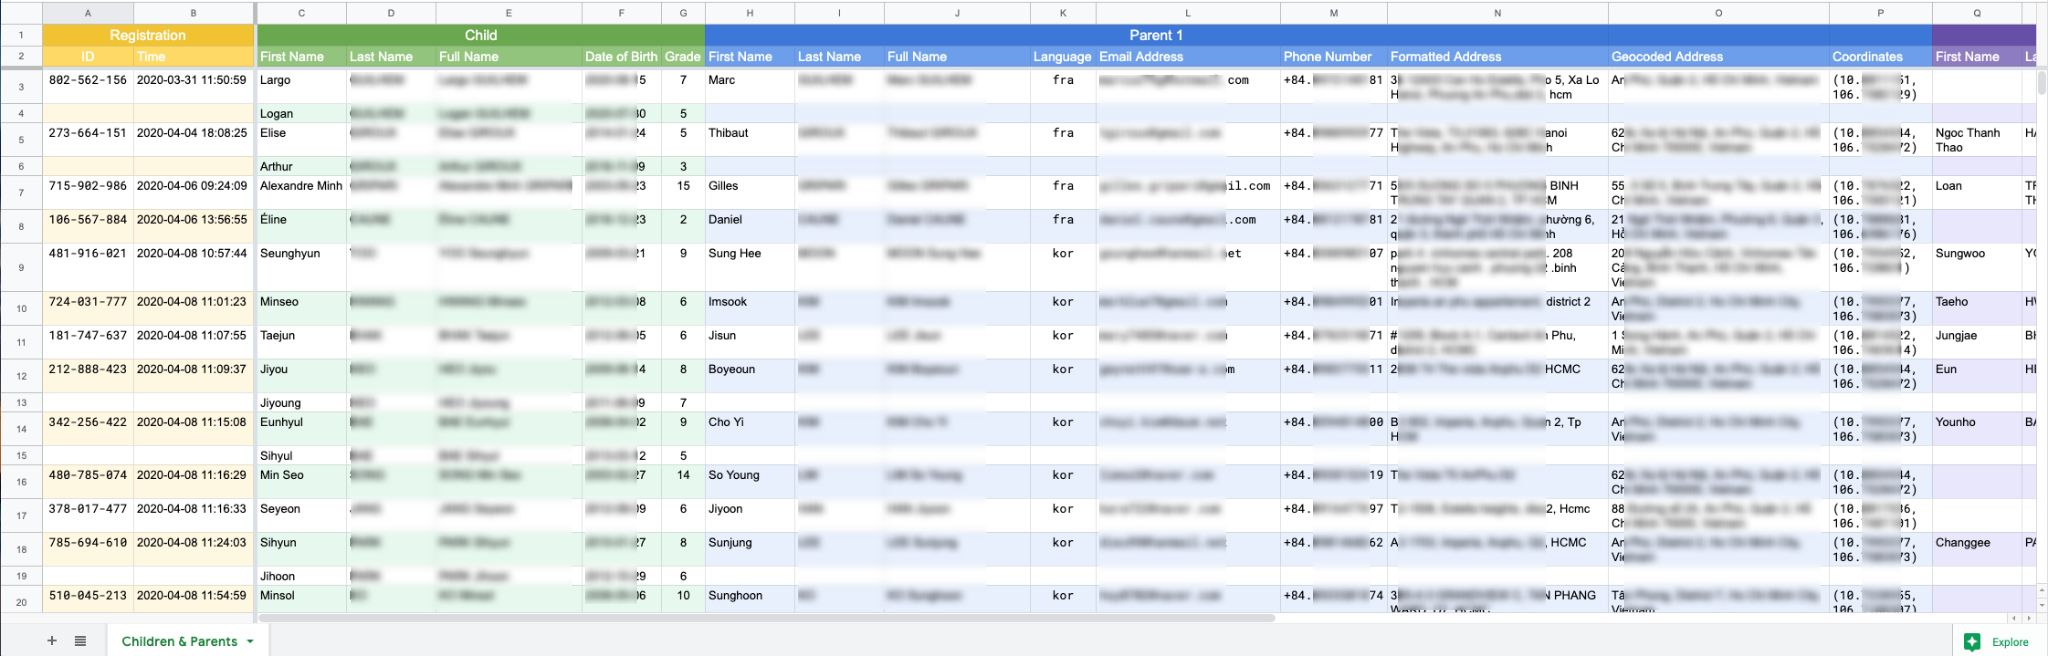
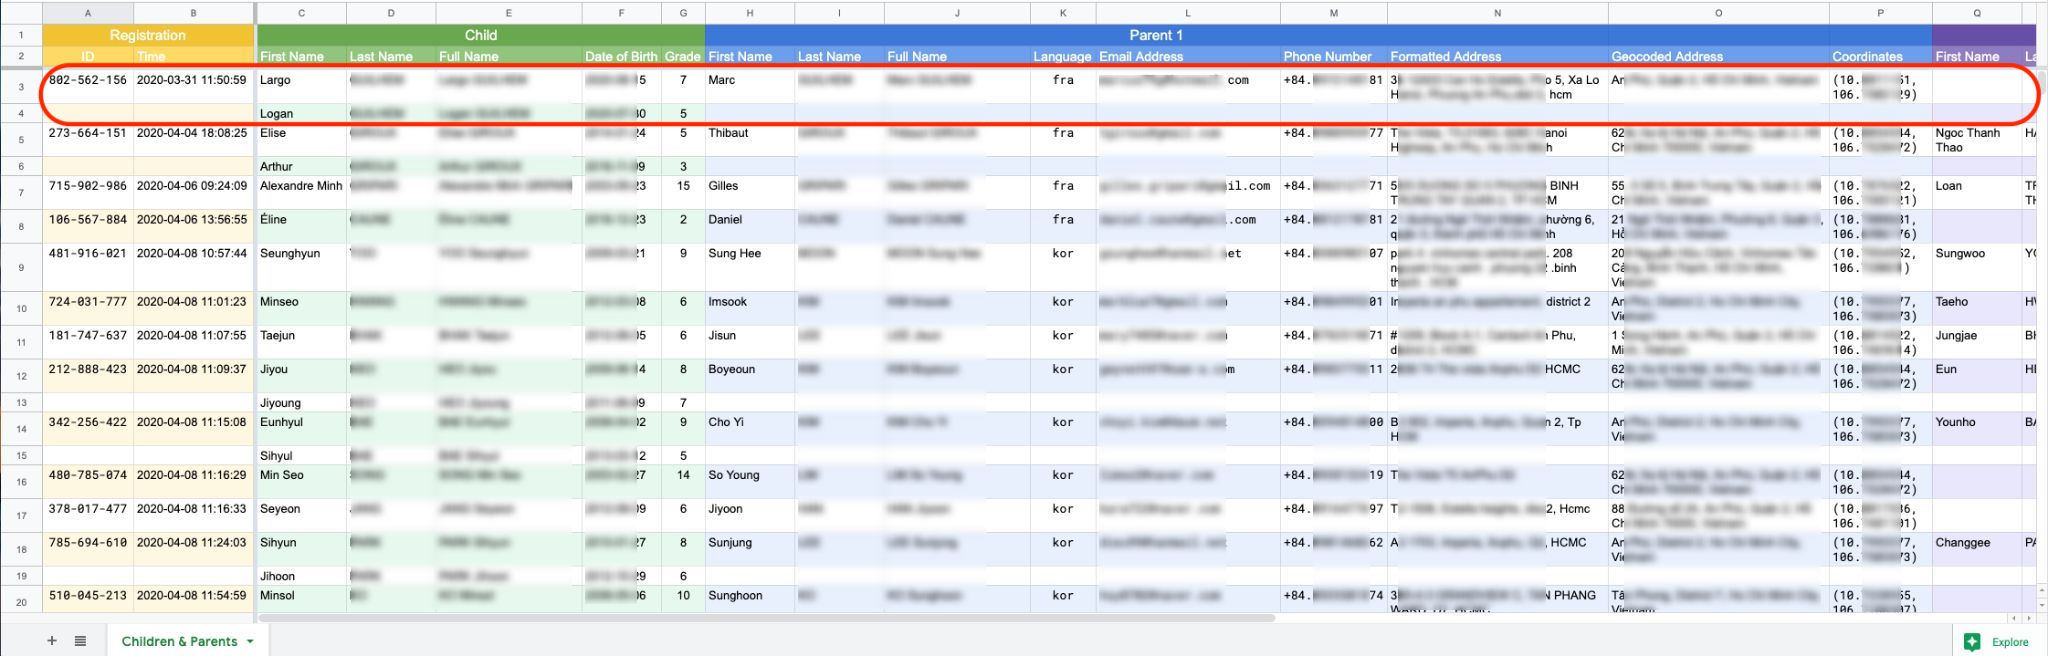
Describe the lines corresponding to a family

Changed region(s): [[0.0, 0.0915, 1.0, 0.2134]]

diff --git a/doc/README.md b/doc/README.md
@@ -99,6 +99,14 @@ Lorsque vous liez les formulaires, vous devez indiquer que vous souhaitez sélec
 | --------------------------------------- | ---------------------------------------- | ---------------------------------------- |
 | ![](./doc/google_form_responses_03.png) | ![](./doc/google_sheet_responses_03.png) | ![](./doc/google_sheet_responses_04.png) |
 
-## Étape 2: La Liste Principale des Enfants et des Parents
+Cependant, outre le fait que le format de chaque tableau, correspondant aux réponses d'un formulaire, n'est guère lisible, les réponses des parents se retrouvent dispersées dans plusieurs tableaux du tableur _Google Sheets_. Nous ne lirons donc pas directement ce document.
 
-![](google_sheets_master_list.png)
+## Étape 2: Liste Principale des Enfants et des Parents
+
+Les membres de l'association, généralement non _technicomaniaques_, vont utiliser un autre document _Google Sheets_, coloré, et présentant tous les enfants enregistrés au transport scolaire, leurs parents, dans un format humainement compréhensible :
+
+![](google_sheet_master_list_01.png)
+
+Les informations de chaque enfant sont affichées sur une ligne du tableau. Les enfants d'une même famille se suivent sur des lignes consécutives. Les informarions des parents de ces enfants sont affichées sur la ligne du premier enfant.
+
+![](google_sheet_master_list_02.png)
